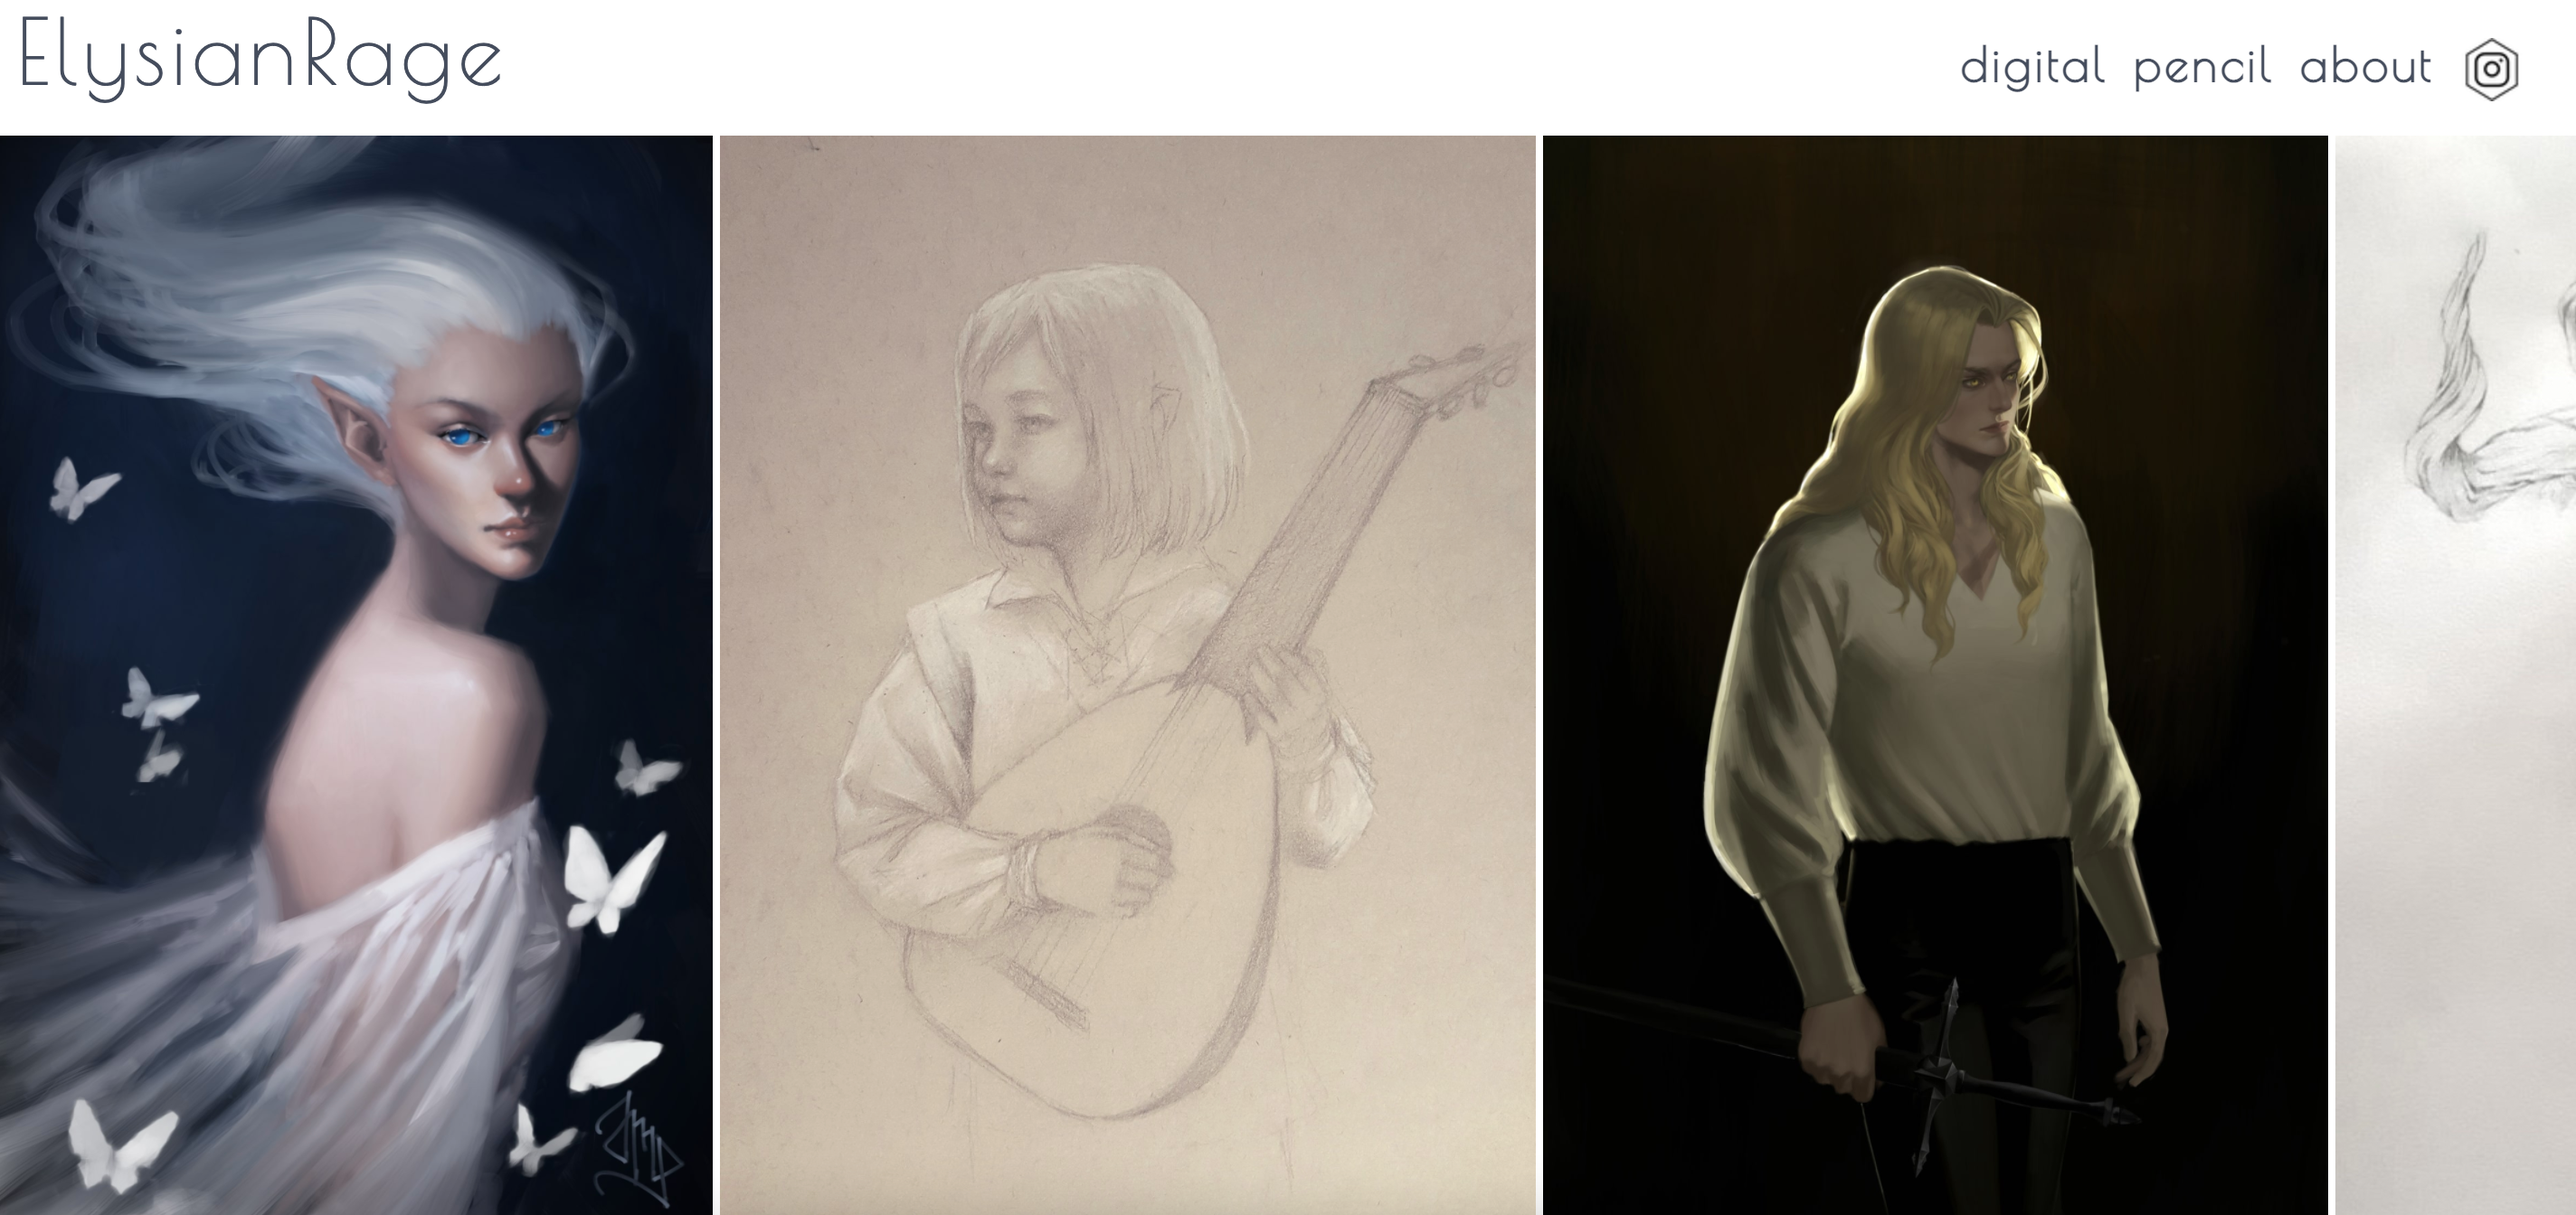
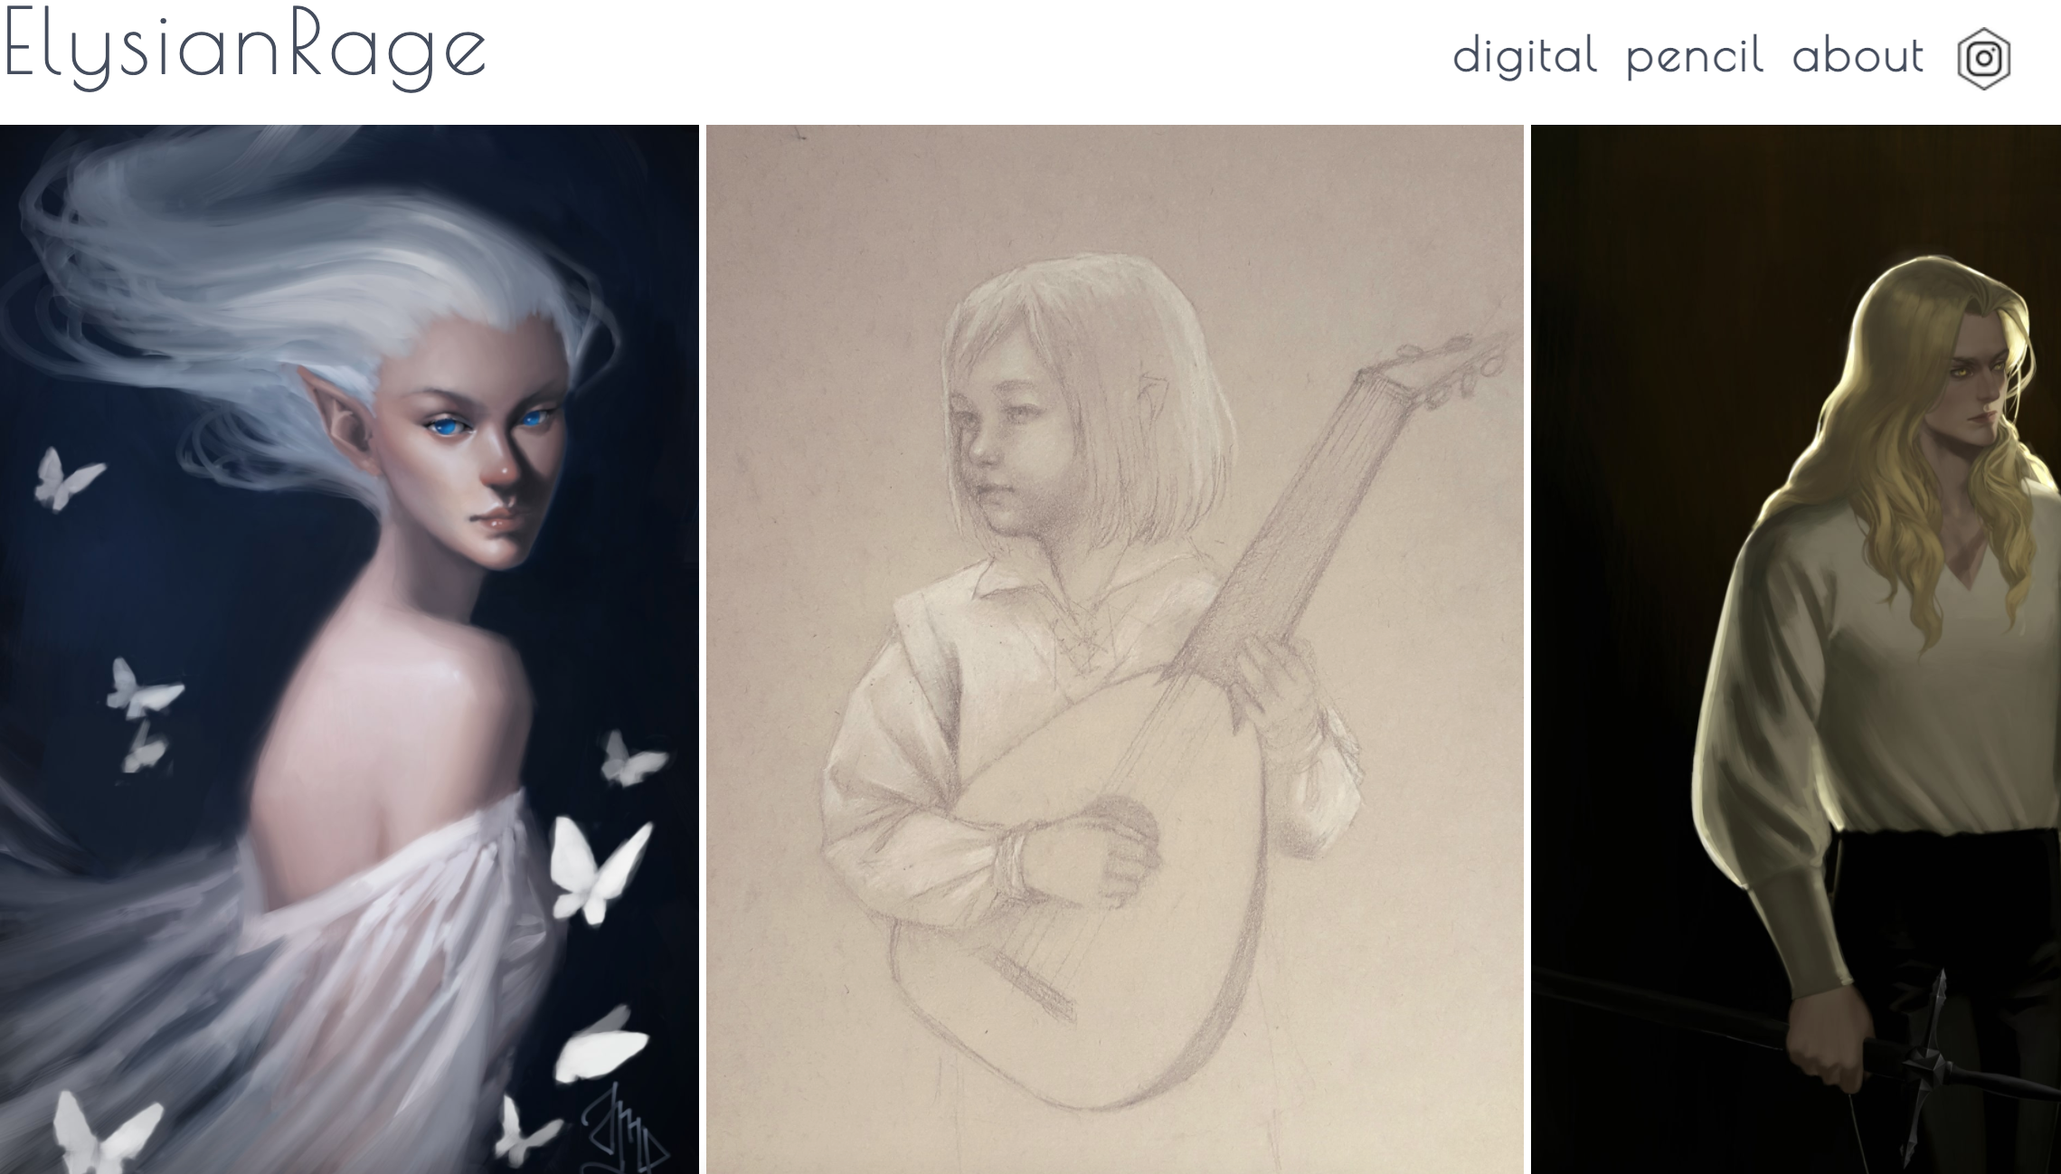
updates

diff --git a/portfolio/src/components/Work.js b/portfolio/src/components/Work.js
@@ -1,96 +1,59 @@
 import React from 'react';
 import './Work.css';
 
-// images
-// import Chicago from './images/chicago.png';
+// images - dimensions = 2279 x 1298
+import Elysian from './images/Elysian.png';
 import Weather from './images/weather.png';
 import Chicago from './images/chicago.png';
-import Quiz from './images/qiuz.png';
-import tictac from './images/tictactoe.png';
 
 function Work() {
   return (
     <div className='work' id='section1'>
-      <h3 className='work-text'>Work.</h3>
-      <section class='cards'>
-        <article>
+      <div className='work-container'>
+        <h3 className='work-text'>Work.</h3>
+        <div className='work-top'>
+          {/* image/link 1 */}
           <a
             href='https://weather-app-zelma.netlify.app/'
             alt='weather'
             target='_blank'
             rel='noreferrer'
           >
-            <img class='article-img' src={Weather} alt=' ' />
+            <img className='work-img' src={Weather} alt='weather-app' />
           </a>
-        </article>
-        <article>
+          {/* image/link 2 */}
           <a
-            href='https://weather-app-zelma.netlify.app/'
+            href='https://github.com/ZelmaSedano/Chicago_Tenants_Rights'
+            alt='chicago'
+            target='_blank'
+            rel='noreferrer'
+          >
+            <img className='work-img' src={Chicago} alt='weather-app' />
+          </a>
+        </div>
+        <div className='work-bottom'>
+          {/* image/link 3 */}
+          <a
+            href='http://www.elysianrage.com'
             alt='weather'
             target='_blank'
             rel='noreferrer'
           >
-            <img class='article-img' src={Chicago} alt=' ' />
+            <img className='work-img' src={Elysian} alt='weather-app' />
           </a>
-        </article>
-        <article>
+          {/* image/link 4 */}
           <a
-            href='https://weather-app-zelma.netlify.app/'
-            alt='weather'
+            href='https://zelmasedano.github.io/React-Game-Hosted/'
+            alt='tixtac'
             target='_blank'
             rel='noreferrer'
           >
-            <img class='article-img' src={Quiz} alt=' ' />
+            <img className='work-img' src={Weather} alt='weather-app' />
           </a>
-        </article>
-
-        <article>
-          <a
-            href='https://weather-app-zelma.netlify.app/'
-            alt='weather'
-            target='_blank'
-            rel='noreferrer'
-          >
-            <img class='article-img' src={tictac} alt=' ' />
-          </a>
-        </article>
-        <article>
-          <a
-            href='https://weather-app-zelma.netlify.app/'
-            alt='weather'
-            target='_blank'
-            rel='noreferrer'
-          >
-            <img class='article-img' src={tictac} alt=' ' />
-          </a>
-        </article>
-        <article>
-          <a
-            href='https://weather-app-zelma.netlify.app/'
-            alt='weather'
-            target='_blank'
-            rel='noreferrer'
-          >
-            <img class='article-img' src={Weather} alt=' ' />
-          </a>
-        </article>
-      </section>
+        </div>
+      </div>
     </div>
   );
 }
 
 export default Work;
-
-//<article>
-{
-  /* image/link 1 */
-}
-// <a
-//     href='https://weather-app-zelma.netlify.app/'
-//     alt='weather'
-//     target='_blank'
-//     rel='noreferrer'
-//   >
-//     <img className='work-img' src={Weather} alt='weather-app' />
-//   </a>
-// </article>

diff --git a/portfolio/src/components/Work.css b/portfolio/src/components/Work.css
@@ -1,42 +1,35 @@
-/* Grid styles -------------------------------------------------*/
-
-.work {
-  max-width: 1500px;
-  margin: 0 auto;
-  /* centers cards */
-  text-align: center;
+.work-img {
+  border-radius: 5px;
+  max-height: 300px;
 }
 
 .work-text {
-  margin-top: 15px;
+  margin: 40px;
   font-family: 'Noto Sans JP', sans-serif;
   font-weight: 100;
   font-size: 30px;
   color: #696969;
 }
 
-.cards {
-  margin: 15px;
-  display: grid;
-  grid-template-columns: repeat(auto-fill, minmax(300px, 1fr));
-  grid-gap: 20px;
+/* PARENT: surrounds all cards & wrapper */
+.work-container {
+  display: flex;
+  /* info will be up & down */
+  flex-flow: column;
+  /* everything will be aligned to center */
+  align-items: center;
+  /* center inside external space */
+  margin: 0 auto;
+  /* so they don't end up too wide */
+  max-width: 1220px;
+  width: 90%;
 }
 
-article {
-  position: relative;
+@media screen and (max-width: 1026px) {
 }
 
-.article-img {
-  height: 400px;
-  width: 100%;
-  object-fit: cover;
-  border-radius: 15px;
-}
-
-.article-title {
-  position: absolute;
-  bottom: 0;
-  width: 100%;
-  padding: 10px;
-  background-color: rgba(255, 255, 255, 0.2);
+@media screen and (max-width: 790px) {
+  .work-top {
+    text-align: center;
+  }
 }
